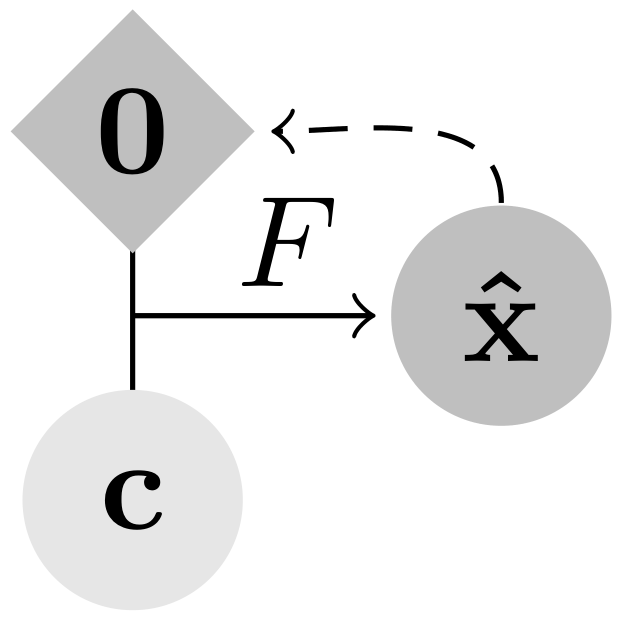
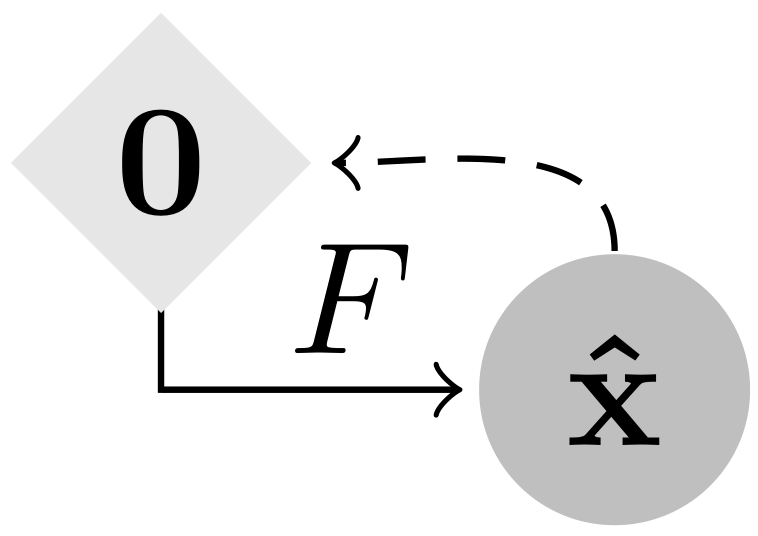
updated

diff --git a/data/GON/index.html b/data/GON/index.html
@@ -30,25 +30,25 @@
             </div>
         </div>
         <div class="info">
-            <p><strong>Abstract</strong> This paper proposes a new type of implicit generative model that is able to quickly learn a latent representation without an explicit encoder. This is achieved with an implicit neural network that takes as inputs points in the coordinate space alongside a latent vector initialised with zeros. The gradients of the data fitting loss with respect to this zero vector are jointly optimised to act as latent points that capture the data manifold. The results show similar characteristics to autoencoders, but with fewer parameters and the advantages of implicit representation networks.</p>
+            <p><strong>Abstract</strong> This paper proposes a new type of generative model that is able to quickly learn a latent representation without an encoder. This is achieved by initialising a latent vector with zeros, then using gradients of the data fitting loss with respect to this zero vector as new latent points. The approach has similar characteristics to autoencoders but with a simpler naturally balanced architecture, and is demonstrated in a variational autoencoder equivalent that permits sampling. This also allows implicit representation networks to learn a space of implicit functions without requiring a hypernetwork, retaining their representation advantages with fewer parameters.</p>
         </div>
         <div class="icons">
             <a href="https://arxiv.org/abs/2007.02798"><i class="fa fa-book" aria-hidden="true"></i><span style=""> arXiv</span></a>
             <a href="https://arxiv.org/pdf/2007.02798.pdf"><i class="fa fa-file-pdf-o" aria-hidden="true"></i><span style=""> Paper</span></a>
             <a href="https://github.com/cwkx/GON"><i class="fa fa-github" aria-hidden="true"></i><span style=""> Code</span></a>
-            <a href="https://youtu.be/ro7t98Q1gXg"><i class="fa fa-youtube" aria-hidden="true"></i><span style=""> YouTube</span></a>
+            <!--<a href="https://youtu.be/ro7t98Q1gXg"><i class="fa fa-youtube" aria-hidden="true"></i><span style=""> YouTube</span></a>-->
             <a href="https://colab.research.google.com/gist/cwkx/8c3a8b514f3bdfe123edc3bb0e6b7eca/gon.ipynb"><i class="fa fa-google" aria-hidden="true"></i><span style=""> Colab</span></a>
             <a href="mailto:samuel.e.bond-taylor@durham.ac.uk,christopher.g.willcocks@durham.ac.uk"><i class="fa fa-envelope-o" aria-hidden="true"></i><span style=""> Contact</span></a>
             <a href="https://twitter.com/cwkx/status/1281180601945653248"><i class="fa fa-retweet" aria-hidden="true"></i><span style=""> Tweet</span></a>
         </div>
         <h2>Approach</h2>
         <p>
-            Gradient Origin Networks (GONs) are comparable to Variational Autoencoders in that both compress data into latent representations and permit sampling in a single step. However, GONs use gradients as encodings meaning that they have a much simpler architecture:
+            Gradient Origin Networks (GONs) are comparable to Variational Autoencoders in that both compress data into latent representations and permit sampling in a single step. However, GONs use gradients as encodings meaning that they have a simpler architecture with only a decoder network:
         </p>
         <table class="spaced">
             <tr>
                 <td><img style="vertical-align:middle; width:auto; height: 120px;" alt="Variational Autoencoder" src="data/vae.png"></td>
-                <td><img style="vertical-align:middle; width:auto; height: 92.4px;" alt="Gradient Origin Network" src="data/gon.png"></td>
+                <td><img style="vertical-align:middle; width:auto; height: 65px;" alt="Gradient Origin Network" src="data/gon.png"></td>
             </tr>
             <tr>
                 <td>Variational Autoencoder</td>
@@ -56,10 +56,10 @@
             </tr>
         </table>
         <p>
-            In Gradient Origin Networks, unknown parameters in the latent space are initialised at the origin. This zero vector is concatenated with the known coordinate parameters, which becomes the inputs of an implicit representation network <i>F</i> with a prior over the gradients (a <a href="https://vsitzmann.github.io/siren/">SIREN</a> whose gradients are normally distributed). This means we can compute gradients of the data fitting loss with respect to these inputs, and jointly optimise for the new latents:
+            In Gradient Origin Networks, unknown parameters in the latent space are initialised at the origin, then the gradients of the data fitting loss with respect to these points are used as the latent space. This process is jointly optimised with the reconstructed data, by minimising the GON loss function:
         </p>
 
-        <img class="center" alt="Gradient Origin Network" src="data/gon-eqn.png">
+        <img class="center" alt="Gradient Origin Network" src="data/gon-eqn.png" style="vertical-align:middle; width:auto; height: 24px;">
         <p>At inference, the latent vector can be sampled in a single step without requiring iteration. Here are some random spherical interpolations showing this:</p>
 
         <table class="squashed" style="margin-top: 3ex; margin-bottom: 3ex;">
@@ -90,14 +90,14 @@
             </tr>
         </table>
 
-        <h2>YouTube video</h2>
+        <!-- <h2>YouTube video</h2>
 
-        <iframe width="100%" height="430" style="background-color: #FFFFFF" src="https://www.youtube.com/embed/ro7t98Q1gXg?transparent=0" frameborder="0" allow="accelerometer; autoplay; encrypted-media; gyroscope; picture-in-picture" allowfullscreen></iframe>
+        <iframe width="100%" height="430" style="background-color: #FFFFFF" src="https://www.youtube.com/embed/ro7t98Q1gXg?transparent=0" frameborder="0" allow="accelerometer; autoplay; encrypted-media; gyroscope; picture-in-picture" allowfullscreen></iframe> -->
 
-        <p>In practice, we find GONs to be parameter-efficient and fast to train. For more details, please watch the YouTube video and read the paper in the links above.</p>
+        <p>In practice, we find GONs to be parameter-efficient and fast to train. For more details, please <!--watch the YouTube video and--> read the paper in the link<!--s--> above.</p>
 
         <div class="info">
-            <p><strong>Conclusion</strong> We have proposed a new type of implicit generative model that captures the dataset without requiring an explicit encoder. By initialising a latent vector of our unknown parameters with zeros, we have shown that it is possible to compute the gradients of the data fitting loss with respect to this origin, and then jointly fit the data while learning this new point of reference in the latent space. The results show this approach is able to represent datasets using a small number of parameters, with the advantage of implicit representation networks being able to model many different types of discrete signals.</p>
+            <p><strong>Conclusion</strong> We have proposed a new type of generative model that captures the dataset without requiring an encoder. By initialising a latent vector of our unknown parameters with zeros, we have shown that it is possible to compute the gradients of the data fitting loss with respect to this origin, and then jointly fit the data while learning this new point of reference in the latent space. The results show this approach is able to represent datasets using a small number of parameters with a simpler architecture, which has advantages in applications such as implicit representation networks.</p>
         </div>
         <h2>Citation</h2>
         <div class="bibtex">

diff --git a/research.html b/research.html
@@ -42,12 +42,12 @@
 <hr>
 <h1 id="multiscale">Gradient Origin Networks</h1>
 <p>
-  <a href="/data/GON/">Gradient Origin Networks (GONs)</a> are comparable to Variational Autoencoders in that both compress data into latent representations and permit sampling. However, GONs use gradients as encodings meaning that they have a much simpler architecture:
+  <a href="/data/GON/">Gradient Origin Networks (GONs)</a> are comparable to Variational Autoencoders in that both compress data into latent representations and permit sampling in a single step. However, GONs use gradients as encodings meaning that they have a simpler architecture with only a decoder network:
 </p>
 <table style="border-spacing: 50px 0;">
   <tr>
       <td><img style="vertical-align:middle; width:auto; height: 120px;" alt="Variational Autoencoder" src="data/GON/data/vae.png"></td>
-      <td><img style="vertical-align:middle; width:auto; height: 92.4px;" alt="Gradient Origin Network" src="data/GON/data/gon.png"></td>
+      <td style="text-align:center;"><img style="vertical-align:middle; width:auto; height: 65px;" alt="Gradient Origin Network" src="data/GON/data/gon.png"></td>
   </tr>
   <tr>
       <td>Variational Autoencoder</td>
@@ -55,7 +55,7 @@
   </tr>
 </table>
 <p>
-  In Gradient Origin Networks, unknown parameters in the latent space are initialised at the origin. This zero vector is concatenated with the known coordinate parameters, which becomes the inputs of an implicit representation network <i>F</i> with a prior over the gradients (a SIREN whose gradients are normally distributed). This means we can compute gradients of the data fitting loss with respect to these inputs, and jointly optimise for the new latents. At inference, the latent vector can be sampled in a single step without requiring iteration. Here are some random spherical interpolations showing this:</p>
+  In Gradient Origin Networks, unknown parameters in the latent space are initialised at the origin, then the gradients of the data fitting loss with respect to these points are used as the latent space. At inference, the latent vector can be sampled in a single step without requiring iteration. Here are some random spherical interpolations showing this:</p>
 
 <table style="margin-top: 3ex; margin-bottom: 3ex; text-align: center;">
   <tr>
